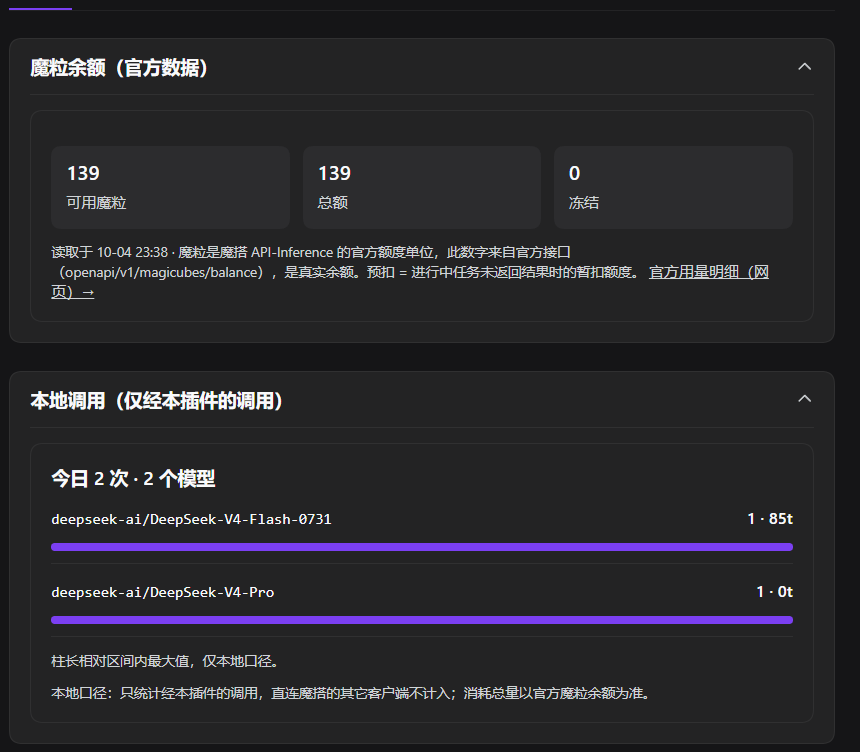
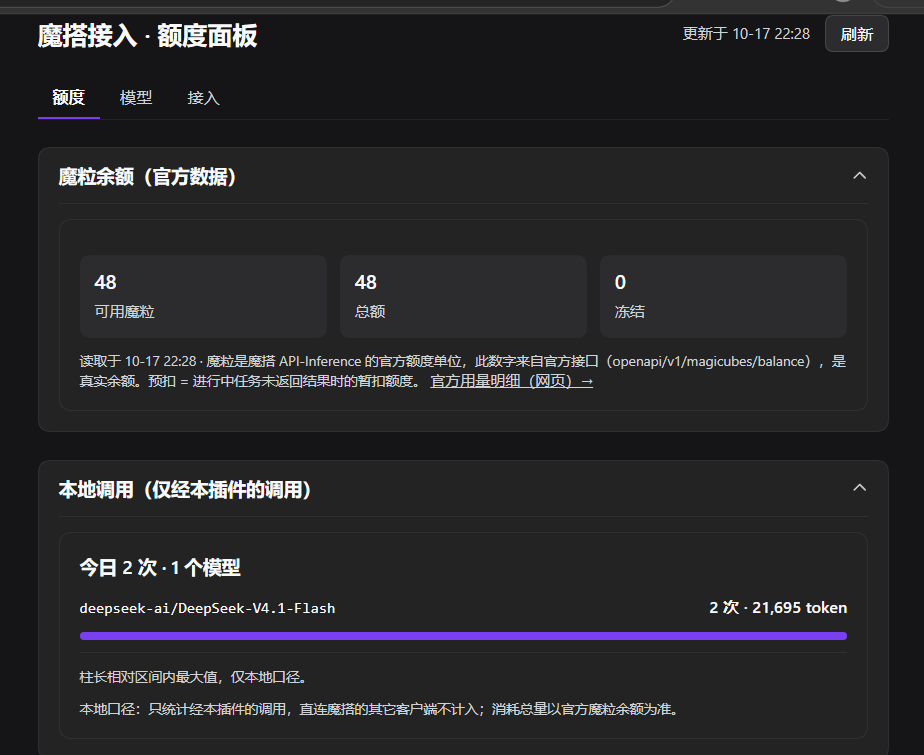
docs+assets: README 对齐新面板，三张市场截图入清单
- 模型 tab 的描述改成实况：按厂商分组（组头可折叠、带数量与已选，「推荐」挂在组头）、
  可搜索。
- 上下文窗口那一段重写：位置（卡片最底）、档位名（上下文窗口覆盖 / 不覆盖（默认））、
  四级真值链写全（目录声明 > 用户覆盖 > 策展表 > 128K 兜底），并点明**覆盖压过策展表**；
  补上窗口数字「按上游写出来的进制显示」这条新规则。
- 新增出图工具卡截图，screenshots.json 从 2 张补到 3 张（市场清单 1–8 张）。

diff --git a/README.md b/README.md
@@ -16,7 +16,7 @@
 
 趋势图是**竖向柱状图**（每根柱顶标出当天次数、0 次不标；轴约 7 个日期刻度且不带年份），区块内可切**显示天数**（默认 / 7 / 14 / 30 / 90）。这个选择器只决定「画多少天」，与决定「能回看多久」的**保留窗口**（`retentionDays`，默认 90 天）是两件事——显示窗口恒被夹在保留窗口之内，所以不会出现「把已剪掉的日子画成 0」那种与「那天真的没调用」无法区分的形状。选择保存在 `usage-prefs.json`（按 profile 分段）。
 
-**「模型」tab**——一行一个魔搭模型，可勾选启用；开关打开即把魔搭注册为 DSH provider：
+**「模型」tab**——模型按**厂商分组**（组头可折叠、带数量与已选数，「推荐」徽标挂在组头、推荐的三家置顶），组内一行一个魔搭模型、勾选即启用，顶部可搜索；开关打开即把魔搭注册为 DSH provider：
 
 ![「模型」tab：接入为DSH 模型与模型清单](assets/tab-model-list.png)
 
@@ -31,15 +31,19 @@ tools registry 没有 unregister）。实测协议（异步两段式、必需头
 继续查询**（只查询、不重复出图）。上游排队实测 1–15 分钟，此前一次调用会一直
 await 到出图为止，整轮对话都得陪着等。
 
-同一 tab 下方另有**「上下文窗口」**选择器（默认/128K/256K/512K/1M）：魔搭目录
-`/v1/models` 不返回窗口字段，Host 侧按三级真值链给每个模型定窗口——目录真声明了
-就用目录值（不受任何下层影响）；用户在这里选一个档位即对**目录没声明窗口的模型**
-全局生效，保存即重注册；**用户没设覆盖时**，插件查内置策展表（`context-catalog.ts`，
-来自 models.dev 各厂 host 交叉比对的同 id 主流窗口，2026-10-16 核对，含 DeepSeek-V4
-全系 1M、Qwen3.5/Qwen3.8-27B/Step 3.x 256K、GLM-5.2 1M 等 19 个当前目录 id）；
-表里也没有的模型才落 128K 兜底。档位落盘在 `provider.json` 的 `contextWindow` 键
-（v1 形状的新增可选键，旧构建宽容读），roster 每行会标出该模型当前生效的窗口——
-策展表来的值带 `*` 号与悬停说明（平台未亲口声明），与目录声明/用户覆盖区分。
+![「模型」tab：出图工具卡（能力徽标、自动选择、重启提示）](assets/tab-model-draw.png)
+
+**卡片最底**另有**「上下文窗口覆盖」**选择器（不覆盖 / 128K / 256K / 512K / 1M）：
+魔搭目录 `/v1/models` 不返回窗口字段，Host 侧按四级真值链给每个模型定窗口——
+① 目录真声明了就用目录值（不受任何下层影响）；② 用户在下面选一个档位（保存即
+重注册）；③ 没设覆盖才查内置策展表（`context-catalog.ts`，来自 models.dev 各厂 host
+交叉比对的同 id 主流窗口，2026-10-16 核对，含 DeepSeek-V4 全系 1M、
+Qwen3.5/Qwen3.8-27B/Step 3.x 256K、GLM-5.2 1M 等 19 个当前目录 id）；④ 都没有才落
+128K 兜底。**覆盖压过策展表**——插件自带的那份是第三方交叉真值，用户要改就改得动。
+档位落盘在 `provider.json` 的 `contextWindow` 键（v1 形状的新增可选键，旧构建宽容读），
+roster 每行标出该模型当前生效的窗口，数字按**上游写出来的进制**显示（目录写 `128000`
+就是 `128K`、档位写 `131072` 也是 `128K`，不做进制换算；策展表来的值带 `*` 号与悬停
+说明——平台未亲口声明）。
 
 ## 对话框胶囊（v0.2 起）
 
@@ -88,7 +92,7 @@ await 到出图为止，整轮对话都得陪着等。
 
 ## 诚实声明
 
-- 面板头条是**官方魔粒余额**（真实值）；本地计数只统计**经本插件的调用**——它回答的是分布/趋势/429 事件流，不是余额，直连魔搭的其它客户端不计入。注册 provider 之后，DSH 的全部魔搭调用都经本插件，所以本地计数**覆盖全部 DSH 魔搭调用**。次数口径的「推算剩余」已从面板移除（官方改魔粒计费后两单位并排是误导），相应地`quota.daily` 只剩 `usedLocal` 一个数——没有 `limit`，也没有推算出的「剩余」。这个数还有第三种答案：**本地计数文件读不到时它是 `null`，面板渲染「—」**——「今日 0 次」是可信的日常值，把「我不知道」画成它会让人以为今天没调用过（`usage.json` 损坏、形状不对、或被更新的构建写过都是这种情形，原因会在面板上方的漂移提示里说明）。
+- 面板头条是**官方魔粒余额**（真实值）；本地计数只统计**经本插件的调用**——它回答的是分布/趋势/429 事件流，不是余额。**它是「本客户端」的口径**：注册 provider 之后该客户端的全部魔搭调用都经本插件，但**不跨客户端**——桌面端与 Web 端是两个 profile，各有各的状态目录（`$DSH_HOME/state/<profile>/<插件名>/usage.json`），各记各的账、互不可见；直连魔搭的其它客户端同样不计入。`npm run doctor` 会把每个 profile 的用量并排列出来，这是「另一个客户端的数字去哪了」的答案。次数口径的「推算剩余」已从面板移除（官方改魔粒计费后两个单位并排是误导），相应地`quota.daily` 只剩 `usedLocal` 一个数——没有 `limit`，也没有推算出的「剩余」。这个数还有第三种答案：**本地计数文件读不到时它是 `null`，面板渲染「—」**——「今日 0 次」是可信的日常值，把「我不知道」画成它会让人以为今天没调用过（`usage.json` 损坏、形状不对、或被更新的构建写过都是这种情形，原因会在面板上方的漂移提示里说明）。
 - **本地计数的口径与 harness 全局账本不同，且刻意不合并**。DSH 自己有 `@linxin666/dsh-usage`，按 `days→provider→model` 记成功调用的 token；它只订阅 session 的 `assistant/message`，**失败调用一次都不记**。所以本插件只做两件全局账本答不了的事：①「经本插件的调用分布与趋势」；②**429/错误事件流**——这是本插件的独家数据（官方只给总额度余额，不给「哪个模型刚才在限频」）。成功的 token 总量不在此重复记账（详见 `src/host/usage-observer.ts` 文件头）。
 - 429/错误事件的分类读的是 **`llm-error-fix` 重分类之后**的 code：被误判成 QUOTA 的 rpm 限频在事件流里记作 `rate_limit`，与退避策略说同一件事。观察层套在重分类层**之外**，顺序不可反。
 - **计数口径**：每次流结束记一次 call，**含失败、含用户中断**（魔搭按次数计费，限频掉的请求同样是一次调用）；token 数上游没给时是 `null` 而非 0。偏差方向是**按流计次**：重试不在流内部发生，而是在流消费完后由 `agent/request-error` 瀑布决定重发，因而**每次重试各记一次**——按「魔搭按次数计费」的口径这反而是对的（每次重发都真打了一次上游）。
